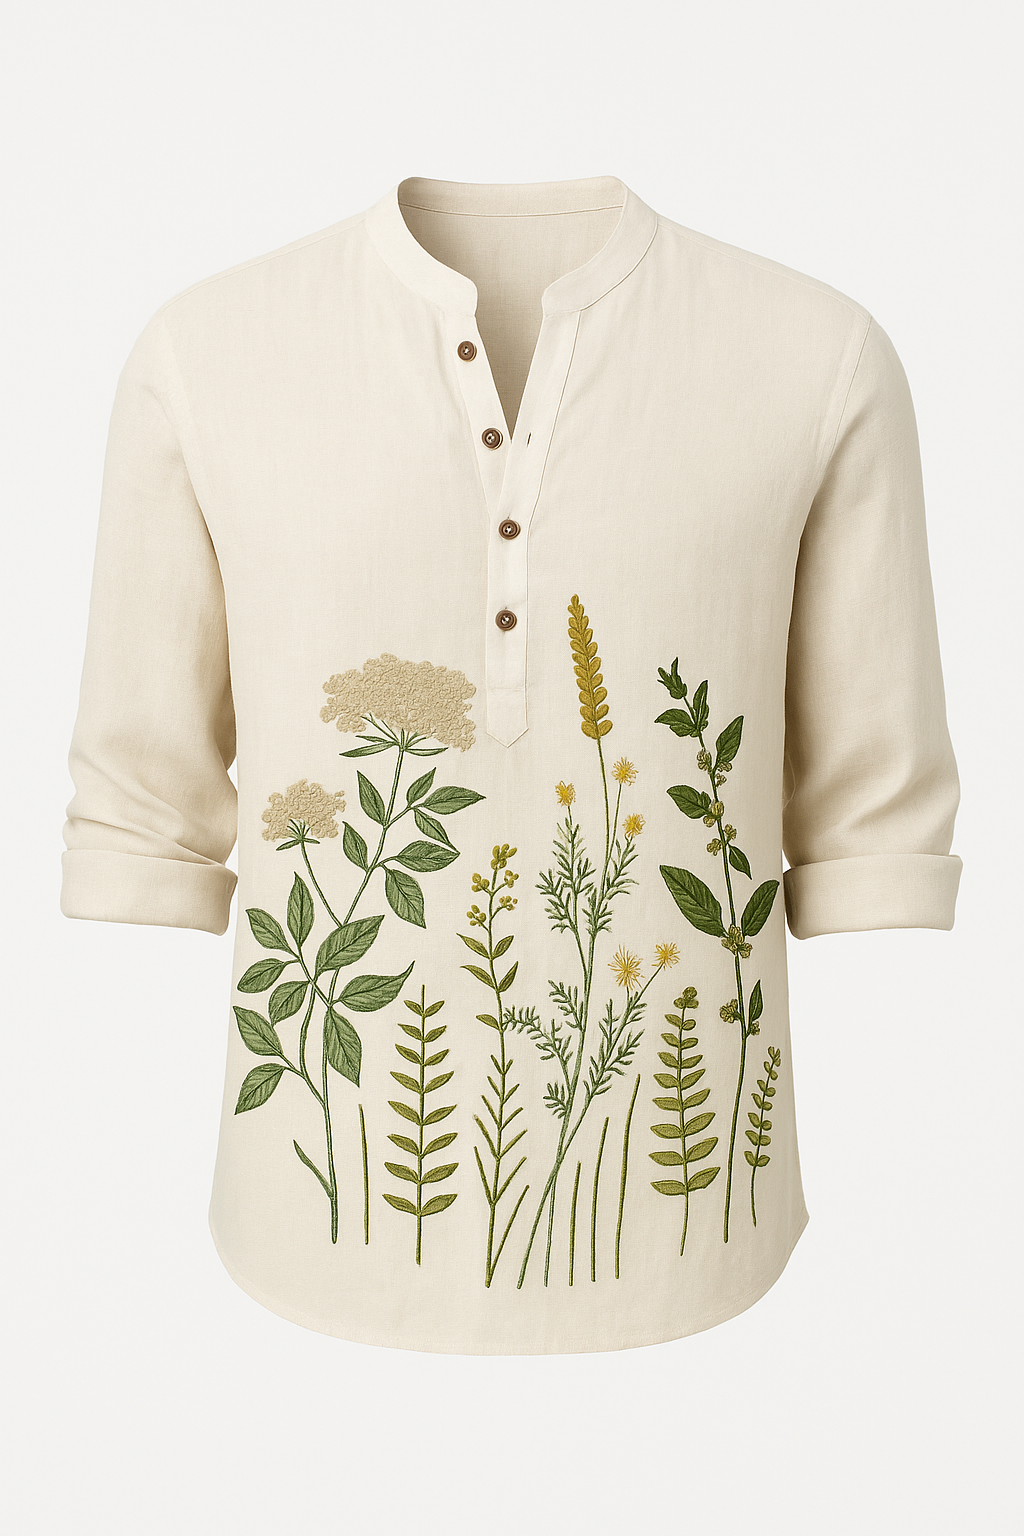
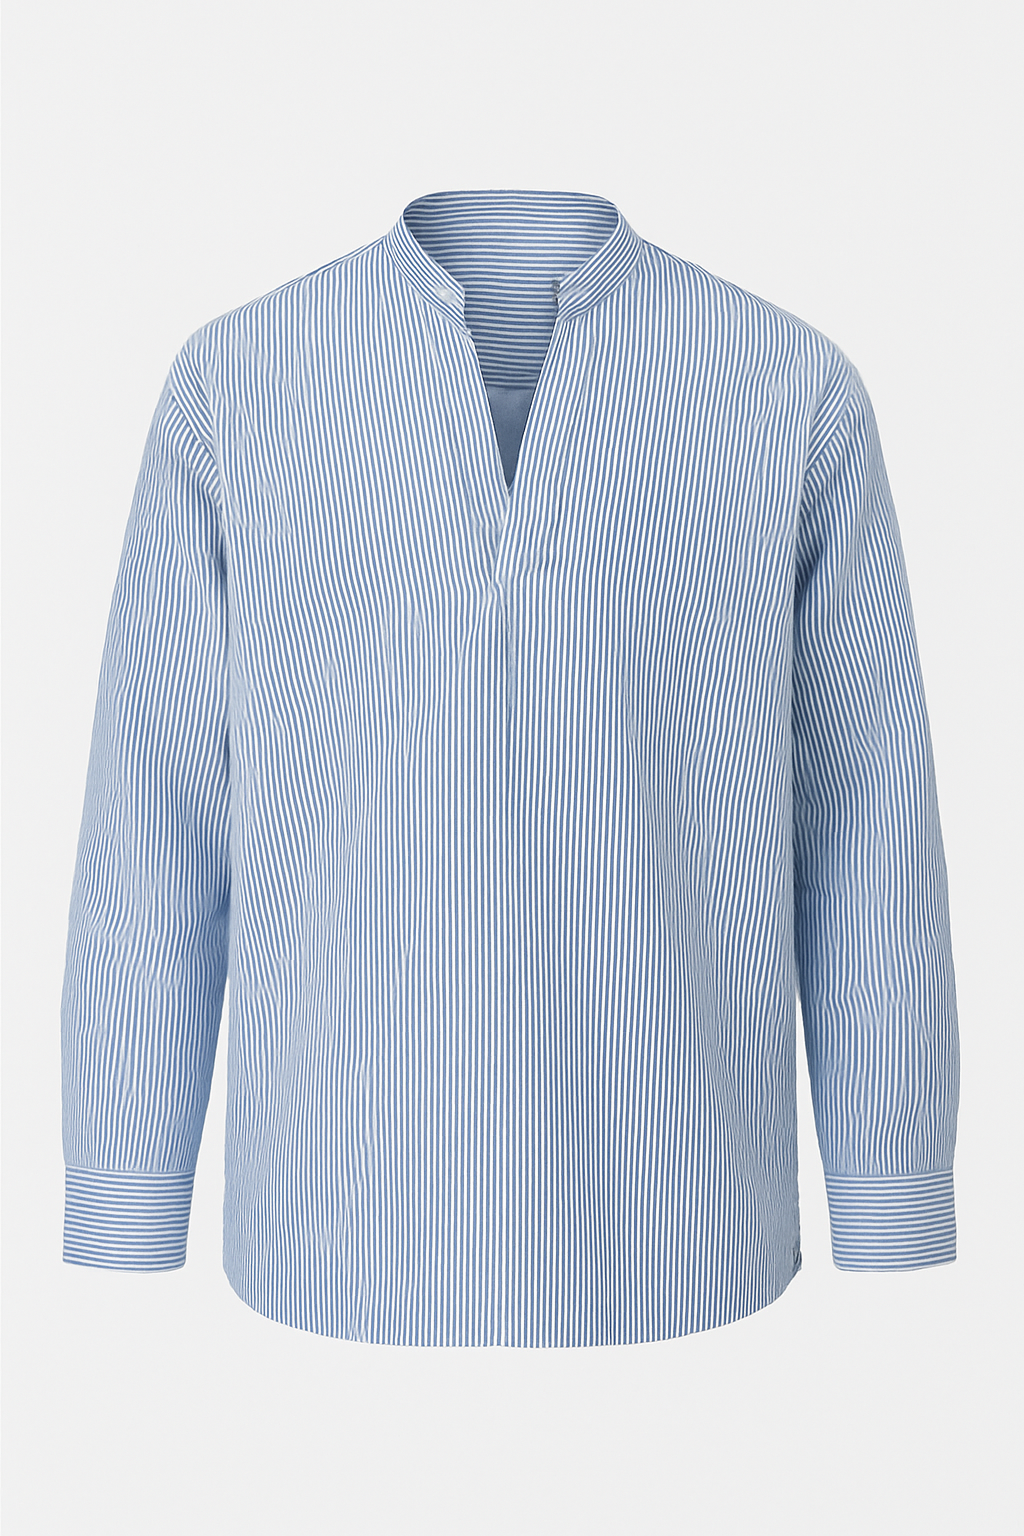
Refactor website design and typography
Implement a new design aesthetic for the Kalateet website, focusing on a calm, rooted, and modern Indian feel. This includes updating typography to use the Sanchez font, adjusting the color palette to incorporate deep maroon, warm ochre, and cream, and restyling the hero and product sections. The hero section now features a maroon gradient background, a new headline and subtext, and a subtle ornamental doorway illustration. Product images have been replaced with new attachments, and product cards have been restyled with a soft beige background and rounded corners. Subtle fade-in animations and a minimal, editorial layout are maintained throughout.

diff --git a/src/components/ProductShowcase.tsx b/src/components/ProductShowcase.tsx
@@ -8,66 +8,66 @@ const products = [
   {
     id: 1,
     image: product1,
-    name: "Heritage Warrior",
+    name: "Oversize Red",
     price: "₹3,299",
-    description: "Cream half kurta with bold warrior print - modern streetwear meets tradition"
+    description: "Deep maroon half kurta with V-neck - timeless elegance meets comfort"
   },
   {
     id: 2,
     image: product2,
-    name: "Street Icon",
-    price: "₹2,899",
-    description: "Black V-neck kurta with vibrant street art - perfect for urban explorers"
+    name: "Olive Green Floral",
+    price: "₹3,899",
+    description: "Botanical print kurta with mandarin collar - nature's artistry woven in fabric"
   },
   {
     id: 3,
     image: product3,
-    name: "Minimal Classic",
-    price: "₹2,599",
-    description: "Beige textured kurta with clean lines - effortless everyday elegance"
+    name: "Oversize Off-White",
+    price: "₹2,999",
+    description: "Textured beige kurta with collared V-neck - understated sophistication"
   },
   {
     id: 4,
     image: product4,
-    name: "Botanical Dreams",
-    price: "₹2,999",
-    description: "Natural cotton kurta with hand-embroidered botanical patterns"
+    name: "Light Chinese Blue",
+    price: "₹3,199",
+    description: "Striped kurta with mandarin collar - classic patterns, modern comfort"
   }
 ];
 
 const ProductShowcase = () => {
   return (
-    <section id="products" className="py-20 lg:py-32">
+    <section id="products" className="py-24 lg:py-32 bg-background">
       <div className="container mx-auto px-4 sm:px-6 lg:px-8">
-        <div className="text-center mb-16">
-          <h2 className="text-4xl lg:text-5xl font-crimson font-semibold text-foreground mb-6">
+        <div className="text-center mb-20">
+          <h2 className="text-4xl lg:text-5xl font-normal text-foreground mb-6 tracking-wide">
             Our Collection
           </h2>
-          <p className="text-xl text-muted-foreground max-w-2xl mx-auto leading-relaxed">
+          <p className="text-lg text-muted-foreground max-w-2xl mx-auto leading-relaxed font-light">
             Each piece is thoughtfully crafted to blend traditional Indian artistry 
             with modern everyday comfort.
           </p>
-          <div className="w-24 h-1 bg-primary mx-auto rounded-full mt-6" />
+          <div className="w-20 h-0.5 bg-accent mx-auto mt-8" />
         </div>
 
         {/* Filter Buttons */}
-        <div className="flex flex-wrap justify-center gap-4 mb-12">
-          <button className="px-6 py-2 rounded-full border border-primary bg-primary text-primary-foreground shadow-soft transition-smooth">
+        <div className="flex flex-wrap justify-center gap-3 mb-16">
+          <button className="px-8 py-2.5 rounded-sm border border-primary bg-primary text-primary-foreground shadow-soft transition-gentle font-light tracking-wide">
             All
           </button>
-          <button className="px-6 py-2 rounded-full border border-border bg-background text-foreground hover:bg-muted transition-smooth">
+          <button className="px-8 py-2.5 rounded-sm border border-border bg-background text-foreground hover:border-accent hover:text-accent transition-gentle font-light tracking-wide">
             Chikankari
           </button>
-          <button className="px-6 py-2 rounded-full border border-border bg-background text-foreground hover:bg-muted transition-smooth">
+          <button className="px-8 py-2.5 rounded-sm border border-border bg-background text-foreground hover:border-accent hover:text-accent transition-gentle font-light tracking-wide">
             Block Print
           </button>
-          <button className="px-6 py-2 rounded-full border border-border bg-background text-foreground hover:bg-muted transition-smooth">
+          <button className="px-8 py-2.5 rounded-sm border border-border bg-background text-foreground hover:border-accent hover:text-accent transition-gentle font-light tracking-wide">
             Embroidered
           </button>
         </div>
 
         {/* Products Grid */}
-        <div className="grid grid-cols-1 md:grid-cols-2 lg:grid-cols-4 gap-8">
+        <div className="grid grid-cols-1 md:grid-cols-2 lg:grid-cols-4 gap-10">
           {products.map((product) => (
             <ProductCard
               key={product.id}
@@ -79,8 +79,8 @@ const ProductShowcase = () => {
           ))}
         </div>
 
-        <div className="text-center mt-12">
-          <button className="text-primary hover:text-primary/80 font-medium text-lg transition-smooth underline-offset-4 hover:underline">
+        <div className="text-center mt-16">
+          <button className="text-accent hover:text-accent/80 font-normal text-base transition-gentle underline-offset-4 hover:underline tracking-wide">
             View All Products →
           </button>
         </div>

diff --git a/src/index.css b/src/index.css
@@ -8,56 +8,53 @@ All colors MUST be HSL.
 
 @layer base {
   :root {
-    /* Brand Colors */
-    --background: 0 0% 100%;
-    --foreground: 20 14% 12%;
+    /* Kalateet Color Palette */
+    --background: 40 14% 98%; /* Off-white #FAF9F7 */
+    --foreground: 15 55% 8%; /* Deep brown-black #1A0F0A */
     
-    /* Blood Red Primary */
-    --primary: 0 85% 45%;
-    --primary-foreground: 0 0% 100%;
-    --primary-muted: 0 85% 94%;
+    /* Deep Maroon Primary */
+    --primary: 0 85% 22%; /* Deep maroon #6E0E0E */
+    --primary-foreground: 30 20% 92%; /* Cream #F4E4D7 */
+    --primary-light: 12 42% 77%; /* Lighter maroon for gradient #E5C9C5 */
     
-    /* Earthy Neutrals */
-    --secondary: 35 20% 85%;
-    --secondary-foreground: 20 14% 12%;
+    /* Warm Ochre Accent */
+    --accent: 30 55% 50%; /* Warm ochre #C47F3A */
+    --accent-foreground: 15 55% 8%;
     
-    /* Soft Pastels */
-    --accent: 340 35% 88%;
-    --accent-foreground: 20 14% 12%;
+    /* Neutrals */
+    --secondary: 40 14% 95%;
+    --secondary-foreground: 15 55% 8%;
     
-    /* Neutral System */
-    --muted: 20 8% 96%;
-    --muted-foreground: 20 12% 45%;
+    --muted: 40 14% 96%;
+    --muted-foreground: 20 8% 45%;
     
     --card: 0 0% 100%;
-    --card-foreground: 20 14% 12%;
+    --card-foreground: 15 55% 8%;
     
     --popover: 0 0% 100%;
-    --popover-foreground: 20 14% 12%;
+    --popover-foreground: 15 55% 8%;
     
-    --border: 20 8% 90%;
-    --input: 20 8% 90%;
-    --ring: 0 85% 45%;
+    --border: 30 12% 88%;
+    --input: 30 12% 88%;
+    --ring: 0 85% 22%;
     
-    /* Earthy Tones */
-    --earth-warm: 35 40% 75%;
-    --earth-deep: 25 30% 25%;
-    --sage: 95 25% 80%;
+    /* Decorative */
+    --cream: 30 20% 92%; /* Cream #F4E4D7 */
     
     /* Premium Shadows & Effects */
-    --shadow-soft: 0 1px 3px 0 rgb(0 0 0 / 0.1), 0 1px 2px -1px rgb(0 0 0 / 0.1);
-    --shadow-medium: 0 4px 6px -1px rgb(0 0 0 / 0.1), 0 2px 4px -2px rgb(0 0 0 / 0.1);
+    --shadow-soft: 0 1px 3px 0 rgb(0 0 0 / 0.05), 0 1px 2px -1px rgb(0 0 0 / 0.05);
+    --shadow-medium: 0 4px 6px -1px rgb(0 0 0 / 0.08), 0 2px 4px -2px rgb(0 0 0 / 0.08);
     --shadow-large: 0 10px 15px -3px rgb(0 0 0 / 0.1), 0 4px 6px -4px rgb(0 0 0 / 0.1);
     
     /* Gradients */
-    --gradient-hero: linear-gradient(135deg, hsl(var(--background)) 0%, hsl(var(--muted)) 100%);
-    --gradient-primary: linear-gradient(135deg, hsl(var(--primary)) 0%, hsl(0 85% 55%) 100%);
+    --gradient-hero: linear-gradient(135deg, hsl(0 85% 22%) 0%, hsl(12 42% 77%) 100%);
+    --gradient-primary: linear-gradient(135deg, hsl(0 85% 22%) 0%, hsl(12 42% 77%) 100%);
     
     /* Transitions */
-    --transition-smooth: all 0.3s cubic-bezier(0.4, 0, 0.2, 1);
-    --transition-bounce: all 0.5s cubic-bezier(0.68, -0.55, 0.265, 1.55);
+    --transition-smooth: all 0.4s cubic-bezier(0.25, 0.46, 0.45, 0.94);
+    --transition-gentle: all 0.6s cubic-bezier(0.25, 0.46, 0.45, 0.94);
     
-    --radius: 0.75rem;
+    --radius: 0.5rem;
   }
 
   .dark {
@@ -105,7 +102,9 @@ All colors MUST be HSL.
   }
 
   body {
-    @apply bg-background text-foreground font-inter antialiased;
+    @apply bg-background text-foreground font-sanchez antialiased;
+    letter-spacing: 0.01em;
+    line-height: 1.7;
   }
   
   html {
@@ -114,12 +113,8 @@ All colors MUST be HSL.
 }
 
 @layer utilities {
-  .font-crimson {
-    font-family: 'Crimson Pro', serif;
-  }
-  
-  .font-inter {
-    font-family: 'Inter', sans-serif;
+  .font-sanchez {
+    font-family: 'Sanchez', serif;
   }
   
   .shadow-soft {
@@ -138,8 +133,8 @@ All colors MUST be HSL.
     transition: var(--transition-smooth);
   }
   
-  .transition-bounce {
-    transition: var(--transition-bounce);
+  .transition-gentle {
+    transition: var(--transition-gentle);
   }
   
   .gradient-hero {

diff --git a/src/components/HeroSection.tsx b/src/components/HeroSection.tsx
@@ -3,33 +3,52 @@ import kalateeLogo from "@/assets/kalateet-logo.png";
 
 const HeroSection = () => {
   return (
-    <section id="home" className="relative min-h-screen flex items-center justify-center bg-background pt-20">
+    <section id="home" className="relative min-h-screen flex items-center justify-center gradient-hero pt-20 overflow-hidden">
+      {/* Ornamental Doorway SVG */}
+      <div className="absolute inset-0 flex items-center justify-center opacity-10">
+        <svg width="400" height="600" viewBox="0 0 400 600" fill="none" xmlns="http://www.w3.org/2000/svg" className="text-cream">
+          <path d="M200 50 C 100 50, 50 150, 50 300 L 50 550 L 350 550 L 350 300 C 350 150, 300 50, 200 50 Z" 
+                stroke="currentColor" 
+                strokeWidth="3" 
+                fill="none"
+                strokeLinecap="round"/>
+          <path d="M 80 300 L 80 550" stroke="currentColor" strokeWidth="2" opacity="0.5"/>
+          <path d="M 320 300 L 320 550" stroke="currentColor" strokeWidth="2" opacity="0.5"/>
+          <circle cx="200" cy="200" r="30" stroke="currentColor" strokeWidth="2" fill="none" opacity="0.6"/>
+          <path d="M 170 200 L 230 200 M 200 170 L 200 230" stroke="currentColor" strokeWidth="2" opacity="0.4"/>
+        </svg>
+      </div>
+
       {/* Content */}
       <div className="relative z-10 w-full">
         <div className="flex flex-col items-center text-center px-4 sm:px-6 lg:px-8">
-          <div className="animate-fade-in max-w-5xl">
+          <div className="animate-fade-in max-w-4xl">
             {/* Logo */}
             <div className="mb-16">
               <img
                 src={kalateeLogo}
-                alt="Kalateet - Premium Men's Half Kurtas"
-                className="h-32 sm:h-40 lg:h-48 w-auto mx-auto"
+                alt="Kalateet - A Doorway to Yourself"
+                className="h-24 sm:h-32 lg:h-40 w-auto mx-auto opacity-90"
               />
             </div>
             
-            <h1 className="text-4xl sm:text-5xl lg:text-6xl font-light text-foreground leading-tight mb-8 tracking-wide">
-              Premium men's half kurtas reimagined as
-              <br />
-              India's everyday alternative to the T-shirt
+            <h1 className="text-4xl sm:text-5xl lg:text-6xl font-normal text-cream leading-relaxed mb-6 tracking-wide">
+              A Doorway to Yourself.
             </h1>
+            
+            <p className="text-lg sm:text-xl lg:text-2xl text-cream/90 max-w-2xl mx-auto mb-12 font-light leading-relaxed">
+              Not just clothing. Kalateet is a ritual of self-expression.
+              <br />
+              Choose fabric, not trends.
+            </p>
             
             <div className="mt-12">
               <Button 
                 variant="default" 
                 size="lg" 
-                className="uppercase tracking-wider font-medium px-12 rounded-none"
+                className="bg-cream text-primary hover:bg-cream/90 font-normal px-12 py-6 rounded-sm transition-gentle shadow-medium hover:shadow-large"
               >
-                Shop All
+                Explore Collection
               </Button>
             </div>
           </div>
@@ -38,7 +57,7 @@ const HeroSection = () => {
 
       {/* Scroll Indicator */}
       <div className="absolute bottom-12 left-1/2 transform -translate-x-1/2 animate-hover-float">
-        <div className="text-xs uppercase tracking-wider text-muted-foreground">
+        <div className="text-xs uppercase tracking-wider text-cream/60 font-light">
           Scroll
         </div>
       </div>

diff --git a/src/components/ProductCard.tsx b/src/components/ProductCard.tsx
@@ -17,46 +17,41 @@ const ProductCard = ({ image, name, price, description }: ProductCardProps) => {
       onMouseEnter={() => setIsHovered(true)}
       onMouseLeave={() => setIsHovered(false)}
     >
-      <div className="relative overflow-hidden rounded-2xl bg-background shadow-soft hover:shadow-large transition-smooth">
+      <div className="relative overflow-hidden rounded-sm bg-card shadow-soft hover:shadow-medium transition-gentle">
         {/* Product Image */}
-        <div className="aspect-square overflow-hidden">
+        <div className="aspect-square overflow-hidden bg-muted">
           <img
             src={image}
             alt={`${name} - premium half kurta for everyday wear`}
-            className={`w-full h-full object-cover transition-smooth ${
-              isHovered ? "scale-110" : "scale-100"
+            className={`w-full h-full object-cover transition-gentle ${
+              isHovered ? "scale-105" : "scale-100"
             }`}
           />
         </div>
 
         {/* Product Info */}
-        <div className="p-6">
-          <h3 className="text-xl font-crimson font-medium text-foreground mb-2">
+        <div className="p-6 bg-card">
+          <h3 className="text-xl font-normal text-foreground mb-2 tracking-wide">
             {name}
           </h3>
-          <p className="text-muted-foreground text-sm mb-3">
+          <p className="text-muted-foreground text-sm mb-4 leading-relaxed font-light">
             {description}
           </p>
           <div className="flex items-center justify-between">
-            <span className="text-2xl font-semibold text-primary">
+            <span className="text-xl font-normal text-accent tracking-wide">
               {price}
             </span>
             <Button
-              variant={isHovered ? "hero" : "minimal"}
+              variant="ghost"
               size="sm"
-              className="transition-smooth"
+              className={`transition-gentle border font-light tracking-wide ${
+                isHovered ? "border-accent text-accent" : "border-border text-foreground"
+              }`}
             >
               Add to Cart
             </Button>
           </div>
         </div>
-
-        {/* Hover Overlay */}
-        <div
-          className={`absolute inset-0 bg-primary/5 transition-smooth ${
-            isHovered ? "opacity-100" : "opacity-0"
-          }`}
-        />
       </div>
     </div>
   );

diff --git a/index.html b/index.html
@@ -8,7 +8,7 @@
     <meta name="author" content="Kalateet" />
     <link rel="preconnect" href="https://fonts.googleapis.com">
     <link rel="preconnect" href="https://fonts.gstatic.com" crossorigin>
-    <link href="https://fonts.googleapis.com/css2?family=Crimson+Pro:wght@300;400;500;600&family=Inter:wght@300;400;500;600&display=swap" rel="stylesheet">
+    <link href="https://fonts.googleapis.com/css2?family=Sanchez:wght@400&display=swap" rel="stylesheet">
 
     <meta property="og:title" content="Kalateet - Modern Indian Everyday Wear" />
     <meta property="og:description" content="Half kurtas reimagined as India's everyday alternative to the T-shirt. Be Yourself. Wear Yourself." />

diff --git a/tailwind.config.ts b/tailwind.config.ts
@@ -44,15 +44,11 @@ export default {
           DEFAULT: "hsl(var(--card))",
           foreground: "hsl(var(--card-foreground))",
         },
-        earth: {
-          warm: "hsl(var(--earth-warm))",
-          deep: "hsl(var(--earth-deep))",
-        },
-        sage: "hsl(var(--sage))",
+        cream: "hsl(var(--cream))",
+        "primary-light": "hsl(var(--primary-light))",
       },
       fontFamily: {
-        crimson: ['Crimson Pro', 'serif'],
-        inter: ['Inter', 'sans-serif'],
+        sanchez: ['Sanchez', 'serif'],
       },
       borderRadius: {
         lg: "var(--radius)",
